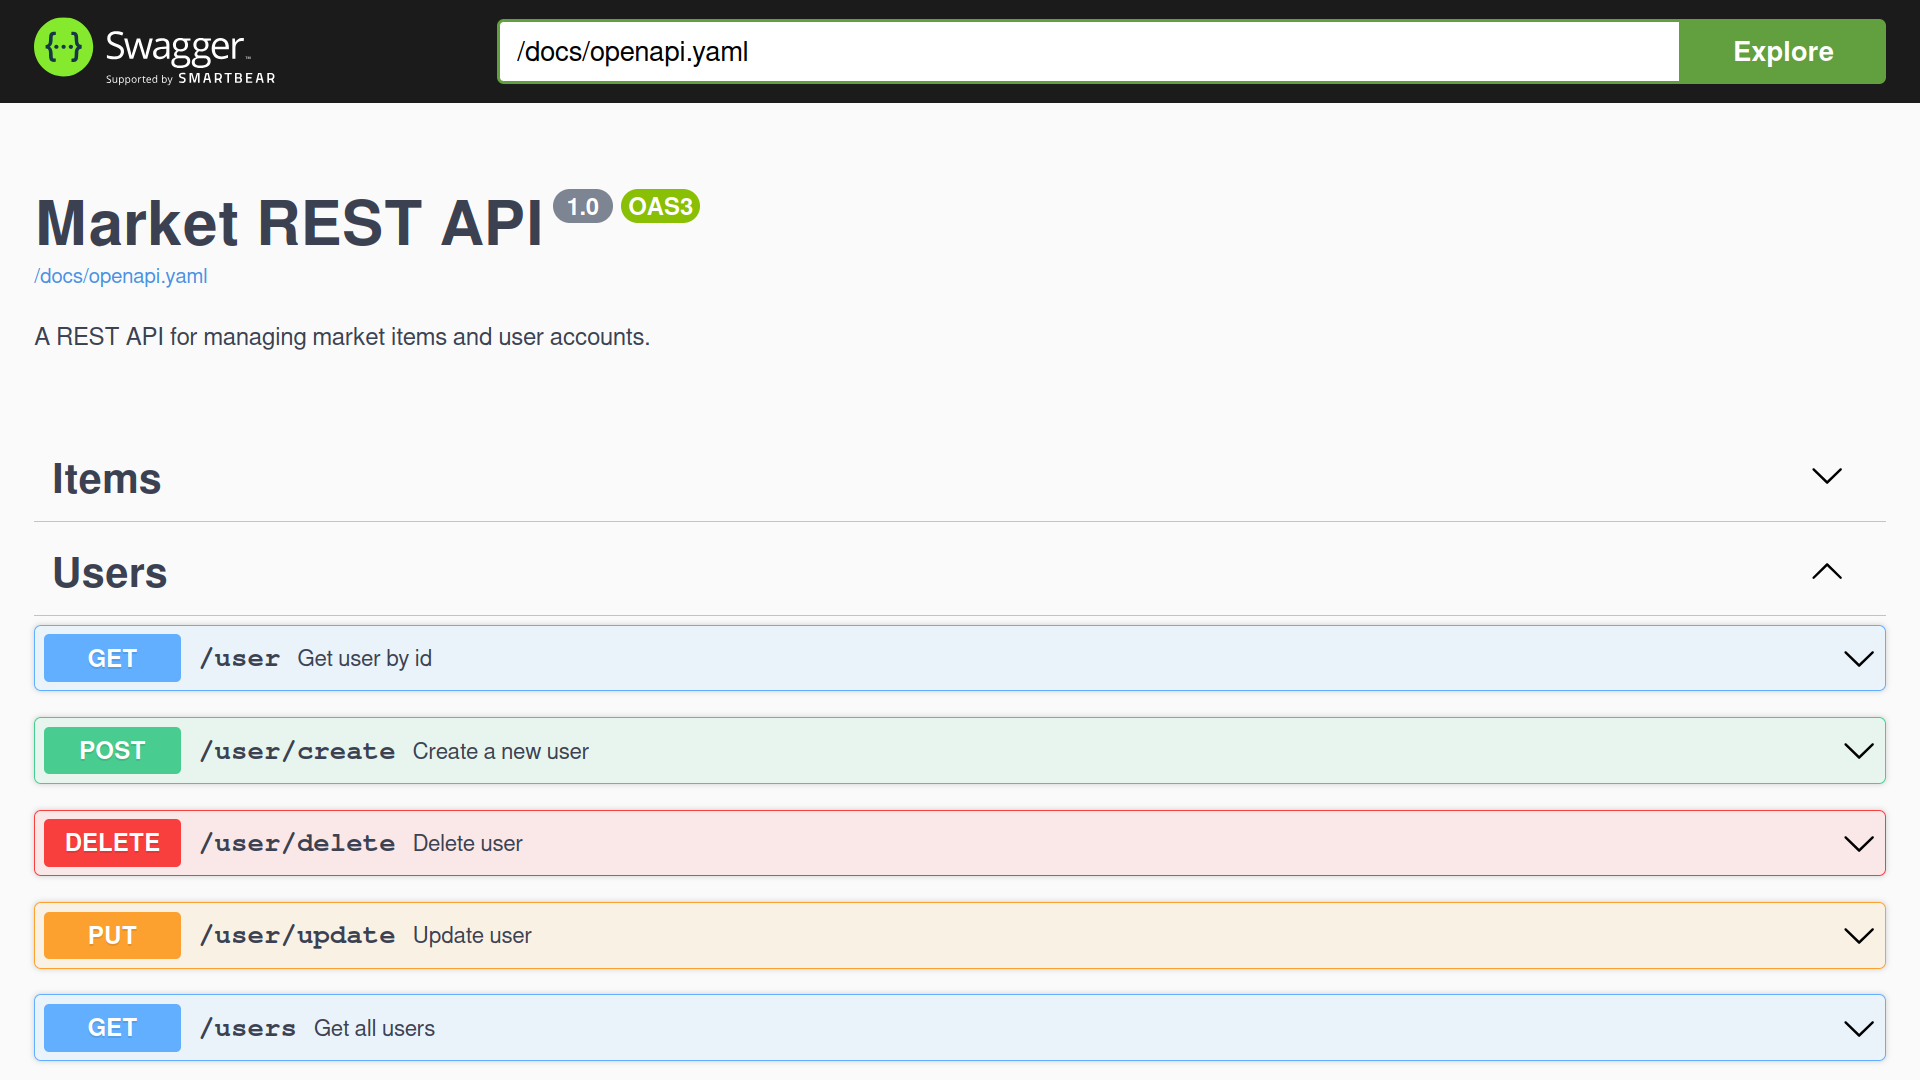
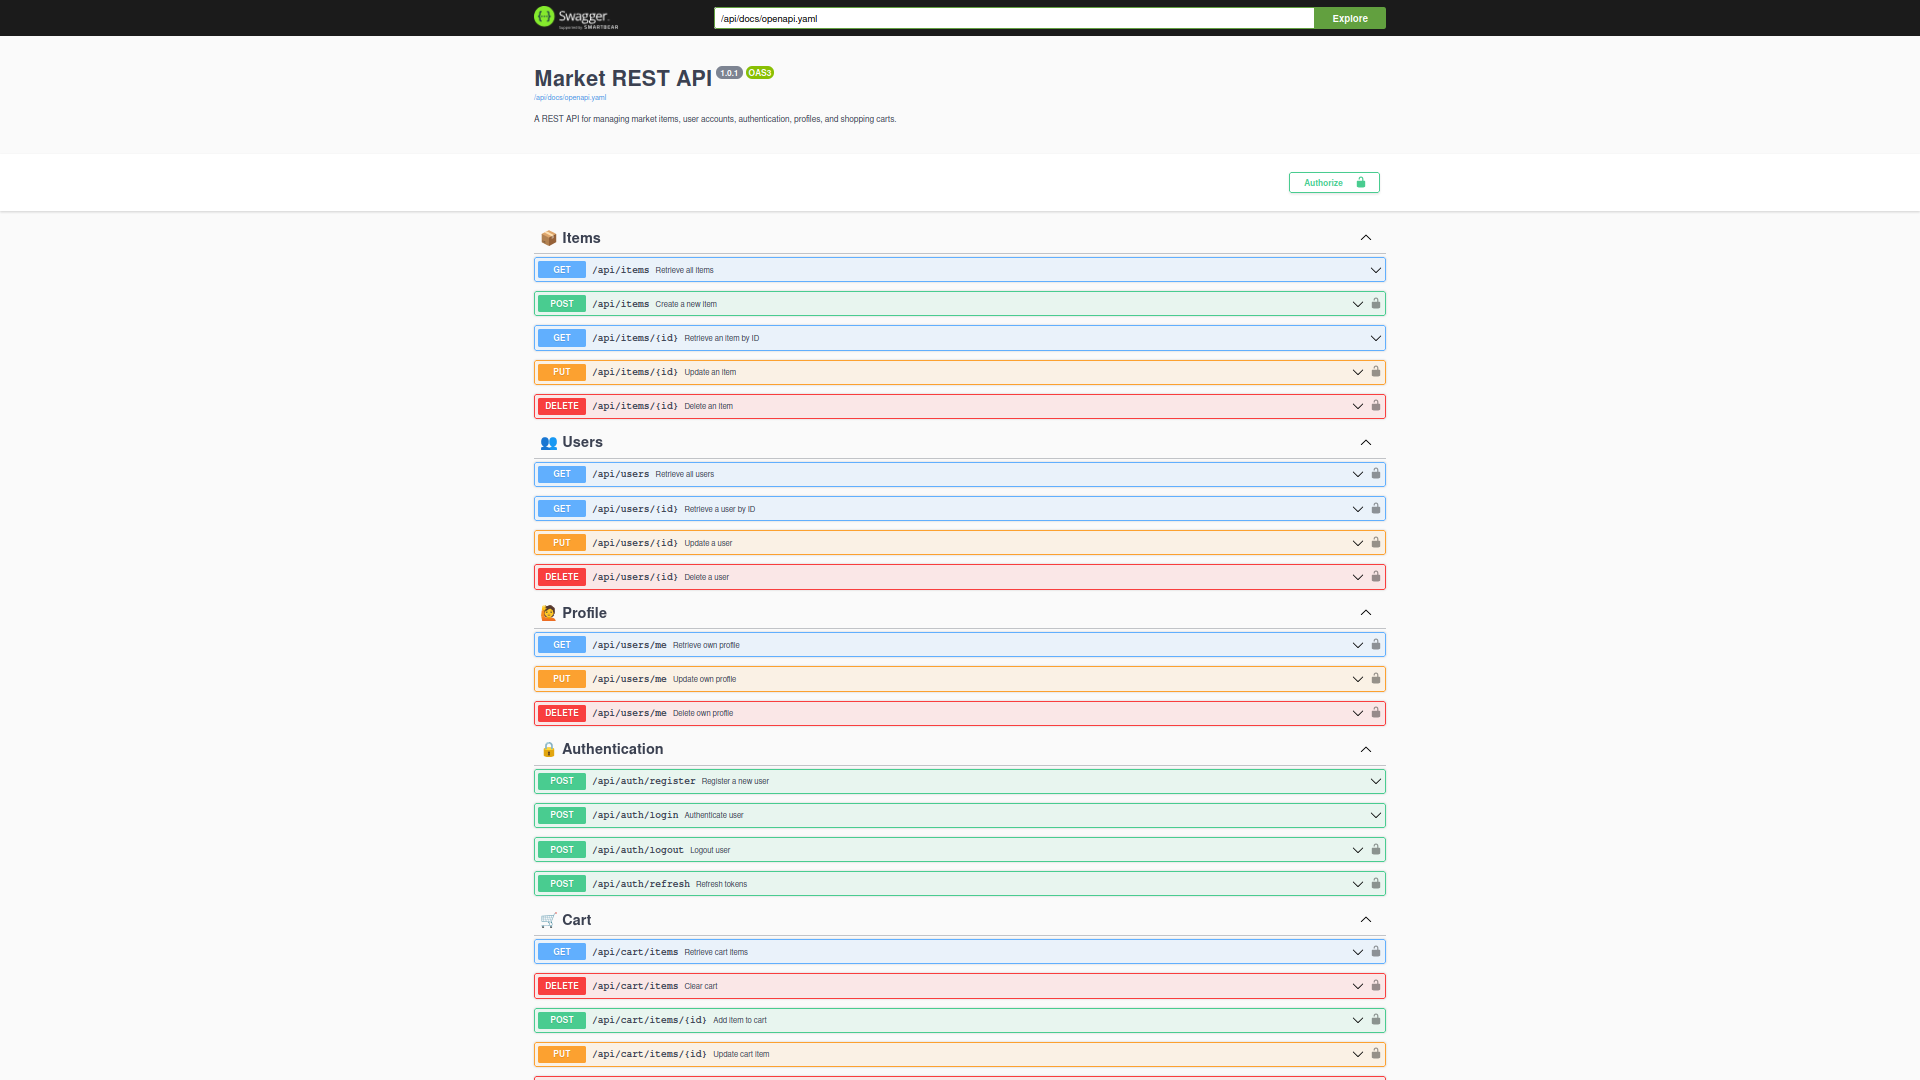
docs: .env for local development; update screenshots

diff --git a/README.md b/README.md
@@ -142,9 +142,28 @@ cd market-rest-api
 # HTTP PORT
 PORT=8080
 
+# DOMAIN
+DOMAIN=localhost
+
+# REDIS
+# SET @localhost if you wanna run the project locally
+REDIS_DSN="redis://:yourpassword@localhost:6379/0"
+REDIS_PASSWORD=yourpassword
+
 # DATABASE DSN
 # SET host=localhost if you wanna run the project locally
-DATABASE_DSN=host=localhost user=postgres password=yourpassword dbname=market port=5432 sslmode=disable TimeZone=UTC
+POSTGRES_DSN=host=localhost user=postgres password=yourpassword dbname=market 
+port=5432 sslmode=disable TimeZone=UTC
+
+# SECRET
[1 lines of base64/hex data omitted]
+
+# ADMIN
+ADMIN_FIRST_NAME=John
+ADMIN_LAST_NAME=Doe
+ADMIN_EMAIL=admin@example.com
+ADMIN_PASSWORD=admin1234
+ADMIN_PHONE_NUMBER=+70000000000
 ```
 
 3. Install dependencies
@@ -161,20 +180,30 @@ make run
 
 ### API Documentation - Swagger UI
 
-Access the interactive API documentation at:
+Access interactive API documentation at:
 
 ```bash
-http://localhost:8080/swagger/index.html
+http://localhost:8080/api/swagger/index.html
 ```
 
 ![Swagger UI Screenshot](screenshots/swagger-ui.png)
 
-### Database Management - pgAdmin
+### PostgreSQL Management - pgAdmin
 
-Manage the PostgreSQL database using pgAdmin at:
+Manage PostgreSQL database using pgAdmin at:
 
 ```bash
 http://localhost:5050
 ```
 
 ![pgAdmin Overview Screenshot](screenshots/pgAdmin-overview.png)
+
+### Redis Management - Redis Commander
+
+Manage Redis with GUI:
+
+```bash
+http://localhost:8081
+```
+
+![Redis Overview Screenshot](screenshots/redis-commander.png)
